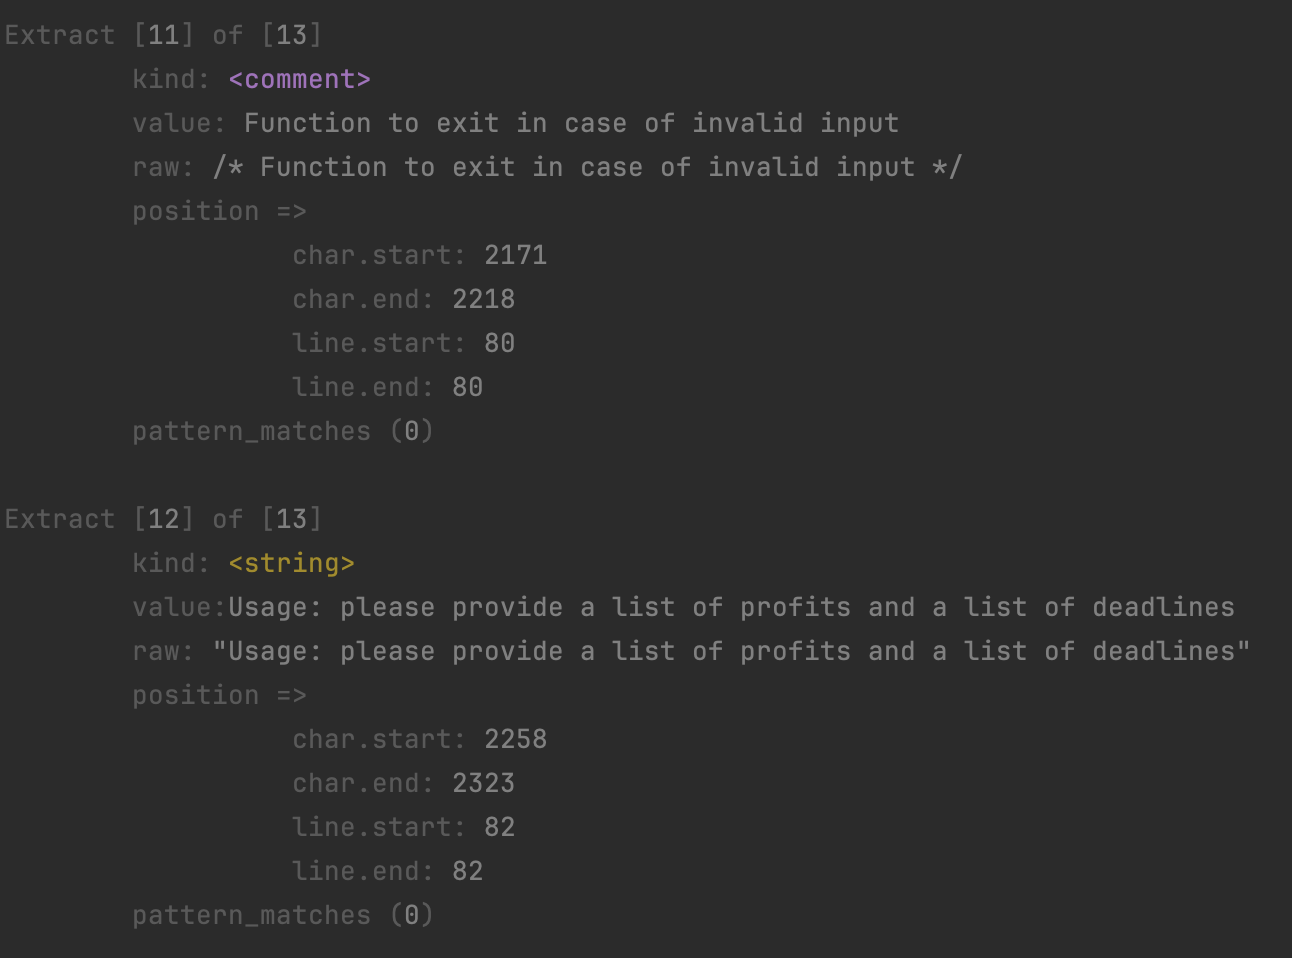
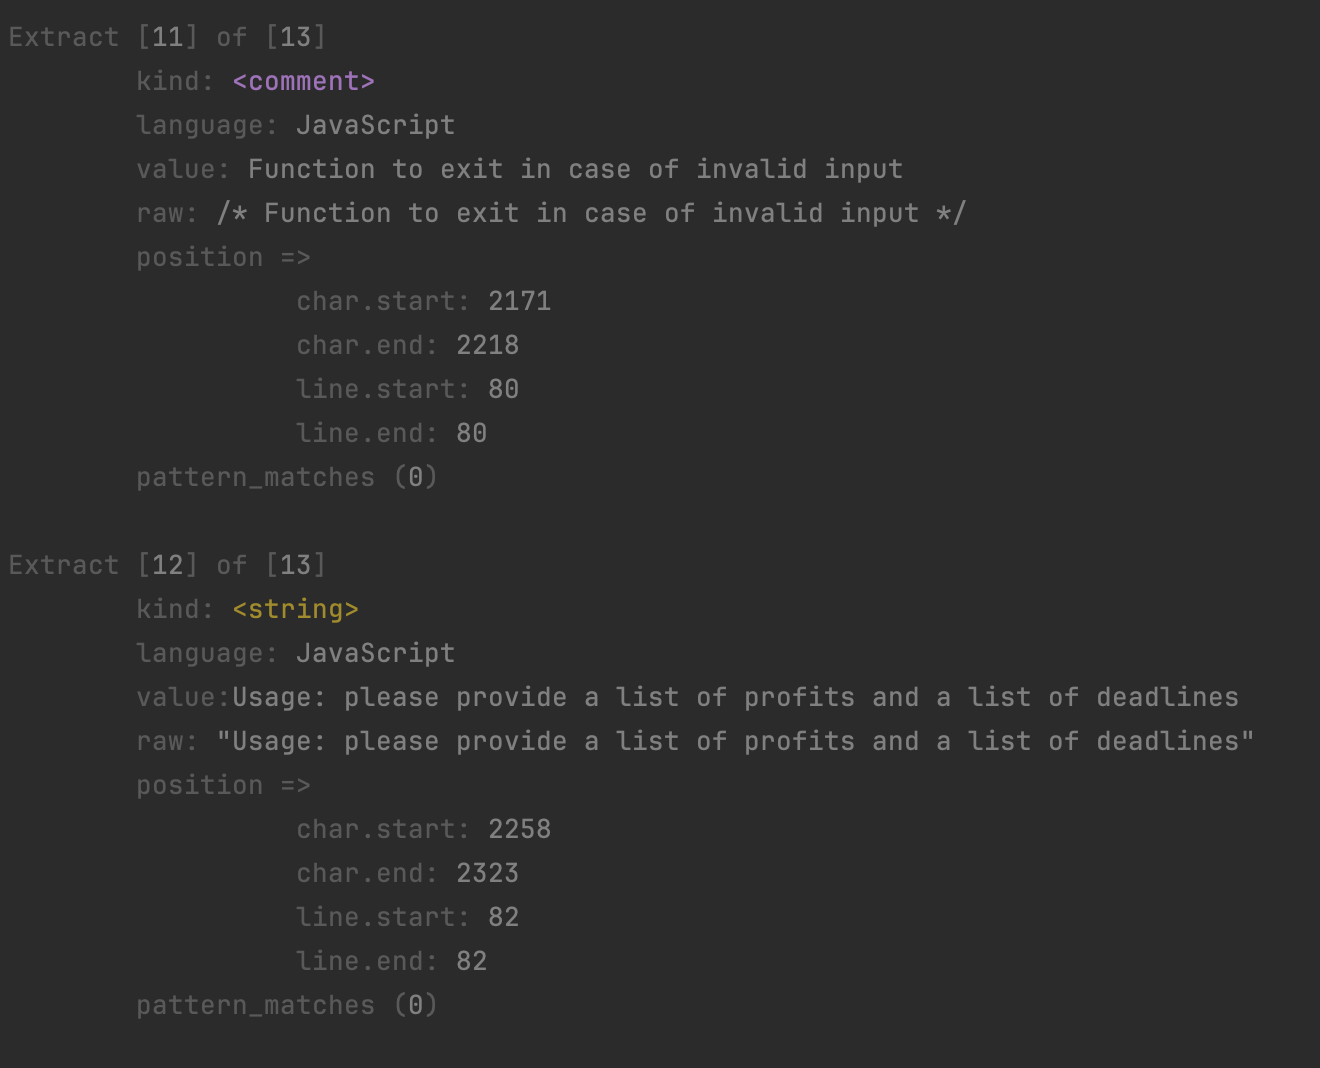
include language in output

diff --git a/src/language/mod.rs b/src/language/mod.rs
@@ -14,9 +14,10 @@ use crate::patterns::{do_regex, RegexMatchCollection};
 use snailquote::unescape as snail_unescape;
 
 #[pyclass(get_all)]
-#[derive(Clone, Copy, EnumString, Display )]
+#[derive(Default, Clone, Copy, EnumString, Display )]
 #[strum(ascii_case_insensitive)]
 pub enum ProgrammingLanguage {
+    #[default]
     Unknown,
     Python,
     JavaScript,
@@ -32,10 +33,23 @@ pub fn lang_from_str(str_input: &str) -> ProgrammingLanguage {
     return ProgrammingLanguage::from_str(str_input).unwrap();
 }
 
+#[pyfunction]
+#[allow(dead_code)]
+pub fn lang_to_str(lang: ProgrammingLanguage) -> PyResult<String> {
+    return Ok(lang.to_string());
+}
+
+#[pyfunction]
+#[allow(dead_code)]
+pub fn kind_to_str(kind: ParseMatchType) -> PyResult<String> {
+    return Ok(kind.to_string());
+}
+
 #[pyclass(get_all)]
 #[derive(Default, Clone)]
 pub struct ParseMatch {
     pub kind: ParseMatchType,
+    pub language: ProgrammingLanguage,
     pub value: String,
     pub raw: String,
     pub position: MatchPos,
@@ -43,7 +57,7 @@ pub struct ParseMatch {
 }
 
 impl ParseMatch {
-    fn from(rule_str: ParseMatchType, value_str: &str, raw_str: &str, inner_span: Span) -> ParseMatch {
+    fn from(rule_str: ParseMatchType, lang: ProgrammingLanguage, value_str: &str, raw_str: &str, inner_span: Span) -> ParseMatch {
         let source_pos = MatchPos {
             char: MatchSpan {
                 start: inner_span.start_pos().pos(),
@@ -59,6 +73,7 @@ impl ParseMatch {
 
         let p_match = ParseMatch {
             kind: rule_str,
+            language: lang,
             value: str_value.to_owned(),
             raw: raw_str.to_string(),
             position: source_pos.clone(),

diff --git a/src/language/toml/mod.rs b/src/language/toml/mod.rs
@@ -1,7 +1,7 @@
 use pest::iterators::Pairs;
 use pest::Parser;
 use pest_derive::Parser;
-use crate::language::{ParseMatch, ParseMatchType};
+use crate::language::{ParseMatch, ParseMatchType, ProgrammingLanguage};
 
 #[derive(Parser)]
 #[grammar = "./language/toml/grammar.pest"]
@@ -35,7 +35,12 @@ pub fn parse(str_input: &str) -> Vec<ParseMatch>  {
                 }
             }
 
-            let parse_match = ParseMatch::from(rule_str,match_contents,inner_pair.as_str(), inner_pair.as_span());
+            let parse_match = ParseMatch::from(rule_str,
+                                               ProgrammingLanguage::Toml,
+                                               match_contents,
+                                               inner_pair.as_str(),
+                                               inner_pair.as_span());
+            
             tokens.push( parse_match);
         }
     }

diff --git a/src/language/javascript/mod.rs b/src/language/javascript/mod.rs
@@ -1,7 +1,7 @@
 use pest::iterators::Pairs;
 use pest::Parser;
 use pest_derive::Parser;
-use crate::language::{ParseMatch, ParseMatchType};
+use crate::language::{ParseMatch, ParseMatchType, ProgrammingLanguage};
 
 #[derive(Parser)]
 #[grammar = "./language/javascript/grammar.pest"]
@@ -37,7 +37,11 @@ pub fn parse(str_input: &str) -> Vec<ParseMatch>  {
                 }
             }
 
-            let parse_match = ParseMatch::from(rule_str,match_contents,inner_pair.as_str(), inner_pair.as_span());
+            let parse_match = ParseMatch::from(rule_str,
+                                               ProgrammingLanguage::JavaScript,
+                                               match_contents,
+                                               inner_pair.as_str(),
+                                               inner_pair.as_span());
             tokens.push( parse_match);
         }
     }

diff --git a/src/language/python/mod.rs b/src/language/python/mod.rs
@@ -1,7 +1,7 @@
 use pest::iterators::Pairs;
 use pest::Parser;
 use pest_derive::Parser;
-use crate::language::{ParseMatch, ParseMatchType};
+use crate::language::{ParseMatch, ParseMatchType, ProgrammingLanguage};
 
 #[derive(Parser)]
 #[grammar = "./language/python/grammar.pest"]
@@ -36,7 +36,11 @@ pub fn parse(str_input: &str) -> Vec<ParseMatch>  {
                 }
             }
 
-            let parse_match = ParseMatch::from(rule_str,match_contents,inner_pair.as_str(), inner_pair.as_span());
+            let parse_match = ParseMatch::from(rule_str,
+                                               ProgrammingLanguage::Python,
+                                               match_contents,
+                                               inner_pair.as_str(),
+                                               inner_pair.as_span());
             tokens.push( parse_match);
         }
     }

diff --git a/src/language/json/mod.rs b/src/language/json/mod.rs
@@ -1,7 +1,7 @@
 use pest::iterators::Pairs;
 use pest::Parser;
 use pest_derive::Parser;
-use crate::language::{ParseMatch, ParseMatchType};
+use crate::language::{ParseMatch, ParseMatchType, ProgrammingLanguage};
 
 #[derive(Parser)]
 #[grammar = "./language/json/grammar.pest"]
@@ -33,7 +33,12 @@ pub fn parse(str_input: &str) -> Vec<ParseMatch>  {
                 }
             }
 
-            let parse_match = ParseMatch::from(rule_str,match_contents,inner_pair.as_str(), inner_pair.as_span());
+            let parse_match = ParseMatch::from(rule_str,
+                                               ProgrammingLanguage::Json,
+                                               match_contents,
+                                               inner_pair.as_str(),
+                                               inner_pair.as_span());
+
             tokens.push( parse_match);
         }
     }

diff --git a/src/language/csv/mod.rs b/src/language/csv/mod.rs
@@ -1,7 +1,7 @@
 use pest::iterators::Pairs;
 use pest::Parser;
 use pest_derive::Parser;
-use crate::language::{ParseMatch, ParseMatchType};
+use crate::language::{ParseMatch, ParseMatchType, ProgrammingLanguage};
 
 #[derive(Parser)]
 #[grammar = "./language/csv/grammar.pest"]
@@ -33,7 +33,11 @@ pub fn parse(str_input: &str) -> Vec<ParseMatch>  {
                 }
             }
 
-            let parse_match = ParseMatch::from(rule_str,match_contents,inner_pair.as_str(), inner_pair.as_span());
+            let parse_match = ParseMatch::from(rule_str,
+                                               ProgrammingLanguage::Csv,
+                                               match_contents,
+                                               inner_pair.as_str(),
+                                               inner_pair.as_span());
             tokens.push( parse_match);
         }
     }

diff --git a/test/test.py b/test/test.py
@@ -41,9 +41,12 @@ def print_ParseResults(results, verbose=True):
             kind = colored("<comment>", "magenta")
         else:
             kind = colored("<unknown>", "red")
+
         print(colored("\tkind: ", "dark_grey") + kind)
-        print(colored("\tvalue:", "dark_grey") +
-              colored(trunc_str(res.value), "light_grey"))
+        print(colored("\tlanguage: ", "dark_grey") +
+              colored(oxide_serpentine_string.lang_to_str(res.language), "light_grey"))
+
+        print(colored("\tvalue:", "dark_grey") + colored(trunc_str(res.value), "light_grey"))
         if SHOW_RAW:
             print(colored("\traw:", "dark_grey"), colored(trunc_str(res.raw), "light_grey"))
         print_MatchPos(res.position, "\t", "position", verbose)

diff --git a/src/lib.rs b/src/lib.rs
@@ -11,6 +11,9 @@ fn oxide_serpentine_string(_py: Python, m: &PyModule) -> PyResult<()> {
     m.add_class::<language::ProgrammingLanguage>()?;
     m.add_function(wrap_pyfunction!(language::parse_with_lang_enum, m)?)?;
     m.add_function(wrap_pyfunction!(language::parse_with_lang_str, m)?)?;
+    m.add_function(wrap_pyfunction!(language::lang_from_str, m)?)?;
+    m.add_function(wrap_pyfunction!(language::lang_to_str, m)?)?;
+    m.add_function(wrap_pyfunction!(language::kind_to_str, m)?)?;
     m.add_function(wrap_pyfunction!(language::parse, m)?)?;
     m.add_class::<patterns::RegexMatch>()?;
     m.add_class::<patterns::RegexMatchCollection>()?;
